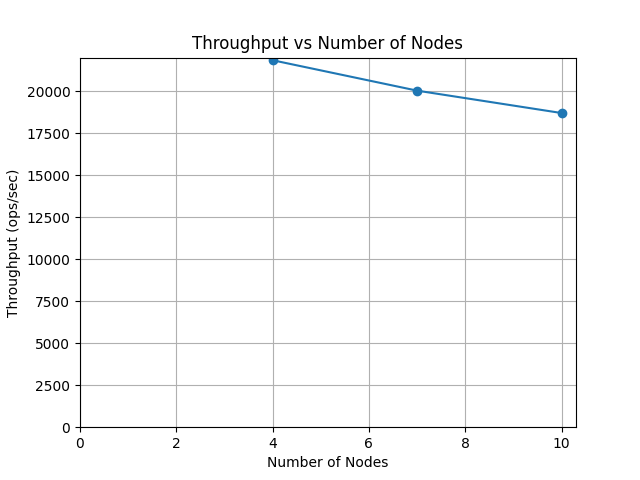
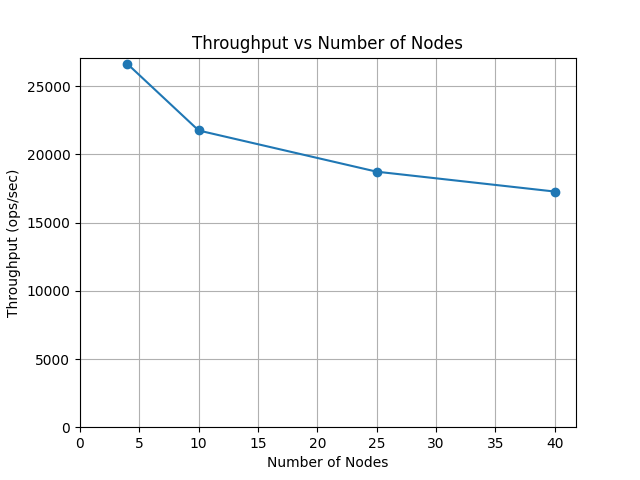
feat: update nodes-tput data

diff --git a/src/execute.rs b/src/execute.rs
@@ -1,10 +1,11 @@
 use std::{
     collections::{HashMap, HashSet, VecDeque},
     mem::take,
+    time::{Duration, Instant},
 };
 
 use bincode::{Decode, Encode};
-use log::trace;
+use log::{info, trace};
 use sha2::{Digest as _, Sha256};
 
 use crate::{
@@ -54,6 +55,13 @@ pub struct Execute<C> {
     updates: Vec<([u8; 32], Option<Vec<u8>>)>,
 
     pending_blocks: VecDeque<Block>,
+
+    metrics: ExecuteMetrics,
+}
+
+struct ExecuteMetrics {
+    start: Instant,
+    work_time: Duration,
 }
 
 impl<C> Execute<C> {
@@ -67,12 +75,16 @@ impl<C> Execute<C> {
             state: Default::default(),
             updates: Default::default(),
             pending_blocks: Default::default(),
+            metrics: ExecuteMetrics {
+                start: Instant::now(),
+                work_time: Duration::ZERO,
+            },
         }
     }
 
     // tune this according to the ordering latency. ordering latency should not exceed the execution
     // latency of a block * NUM_MAX_PENDING
-    const NUM_MAX_PENDING: usize = 100;
+    const NUM_MAX_PENDING: usize = 10_000;
 }
 
 impl<C: ExecuteContext> Execute<C> {
@@ -107,7 +119,12 @@ impl<C: ExecuteContext> Execute<C> {
         self.prepare_block(block);
     }
 
+    pub fn log_metrics(&self) {
+        info!("execution work time: {:?}", self.metrics.work_time);
+    }
+
     fn prepare_block(&mut self, block: Block) {
+        self.metrics.start = Instant::now();
         assert!(self.requests.is_empty());
         let mut fetching_keys = HashSet::new();
         for request in block.txns {
@@ -152,6 +169,7 @@ impl<C: ExecuteContext> Execute<C> {
             self.context.send(client_id, reply);
         }
         self.context.post(take(&mut self.updates));
+        self.metrics.work_time += self.metrics.start.elapsed();
 
         if let Some(block) = self.pending_blocks.pop_front() {
             self.prepare_block(block);

diff --git a/control/src/bin/nodes-tput.rs b/control/src/bin/nodes-tput.rs
@@ -33,7 +33,7 @@ async fn main() -> anyhow::Result<()> {
         ",,,,,\"num of keys = {}, read ratio = {}\"",
         NUM_KEYS, READ_RATIO
     )?;
-    for num_faulty_nodes in [1, 2, 3] {
+    for num_faulty_nodes in [1, 3, 8, 13] {
         println!("running with num_faulty_nodes = {}", num_faulty_nodes);
         let run = run(&cluster, num_faulty_nodes).await?;
         anyhow::ensure!(
@@ -142,10 +142,10 @@ async fn run_workload(
     println!("start clients");
     start_all(client_instances, control_client.clone()).await?;
 
-    sleep(Duration::from_secs(10)).await;
+    sleep(Duration::from_secs(50)).await;
     println!("scrape and discard warmup data");
     scrape_all(client_instances, control_client.clone()).await?;
-    sleep(Duration::from_secs(10)).await;
+    sleep(Duration::from_secs(30)).await;
     println!("scrape measured data");
     let run = scrape_all(client_instances, control_client.clone()).await?;
 

diff --git a/control/src/bin/live-report.rs b/control/src/bin/live-report.rs
@@ -74,7 +74,7 @@ async fn run_workload(
             num_faulty_nodes: NUM_FAULTY_NODES,
         },
         worker_config: big_schema::ClientWorkerConfig {
-            rate: 10_000.,
+            rate: 30_000.,
             num_keys: NUM_KEYS,
             read_ratio: READ_RATIO,
         },
@@ -87,7 +87,7 @@ async fn run_workload(
     start_all(client_instances, control_client.clone()).await?;
 
     let mut next_scrape = Instant::now() + Duration::from_secs(1);
-    for i in 0..10 {
+    for i in 0..20 {
         sleep_until(next_scrape).await;
         println!("scrape clients round {}", i + 1);
         scrape_all(client_instances, control_client.clone()).await?;

diff --git a/src/tasks/replica.rs b/src/tasks/replica.rs
@@ -128,7 +128,11 @@ impl ExecuteTask {
     }
 
     pub async fn run(mut self, stop: CancellationToken) -> anyhow::Result<()> {
-        tokio::spawn(async move { stop.run_until_cancelled(self.run_inner()).await }).await?;
+        tokio::spawn(async move {
+            stop.run_until_cancelled(self.run_inner()).await;
+            self.execute.log_metrics();
+        })
+        .await?;
         Ok(())
     }
 

diff --git a/control/src/bin/deploy.rs b/control/src/bin/deploy.rs
@@ -67,6 +67,8 @@ async fn build(instance: &Instance) -> anyhow::Result<()> {
             "--exclude",
             ".git",
             "--exclude",
+            ".venv",
+            "--exclude",
             "target",
             "--exclude",
             "control/terraform",
